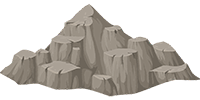
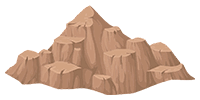
change color rock

diff --git a/css/style.css b/css/style.css
@@ -6,7 +6,7 @@ background-position-y: bottom;
 
 h1,
 h2 {
-    margin: 10px;
+    margin: 1rem;
     font-family: arial;
     font-size: 60px;
     text-align: center;
@@ -19,7 +19,7 @@ h2 {
     padding: 10px 20px;
     cursor: pointer;
     display: block;
-    margin: auto;
+    margin: 1rem auto;
     transition: .3s;
     font-weight: bold;
 }
@@ -31,8 +31,11 @@ h2 {
 
 .container {
     width: 600px;
+    display: flex;
+    flex-wrap: wrap;
     margin: auto;
     cursor: url(../img/cursor/cs1.png), auto;
+    padding-bottom: 10px;
 }
 
 .container:active {
